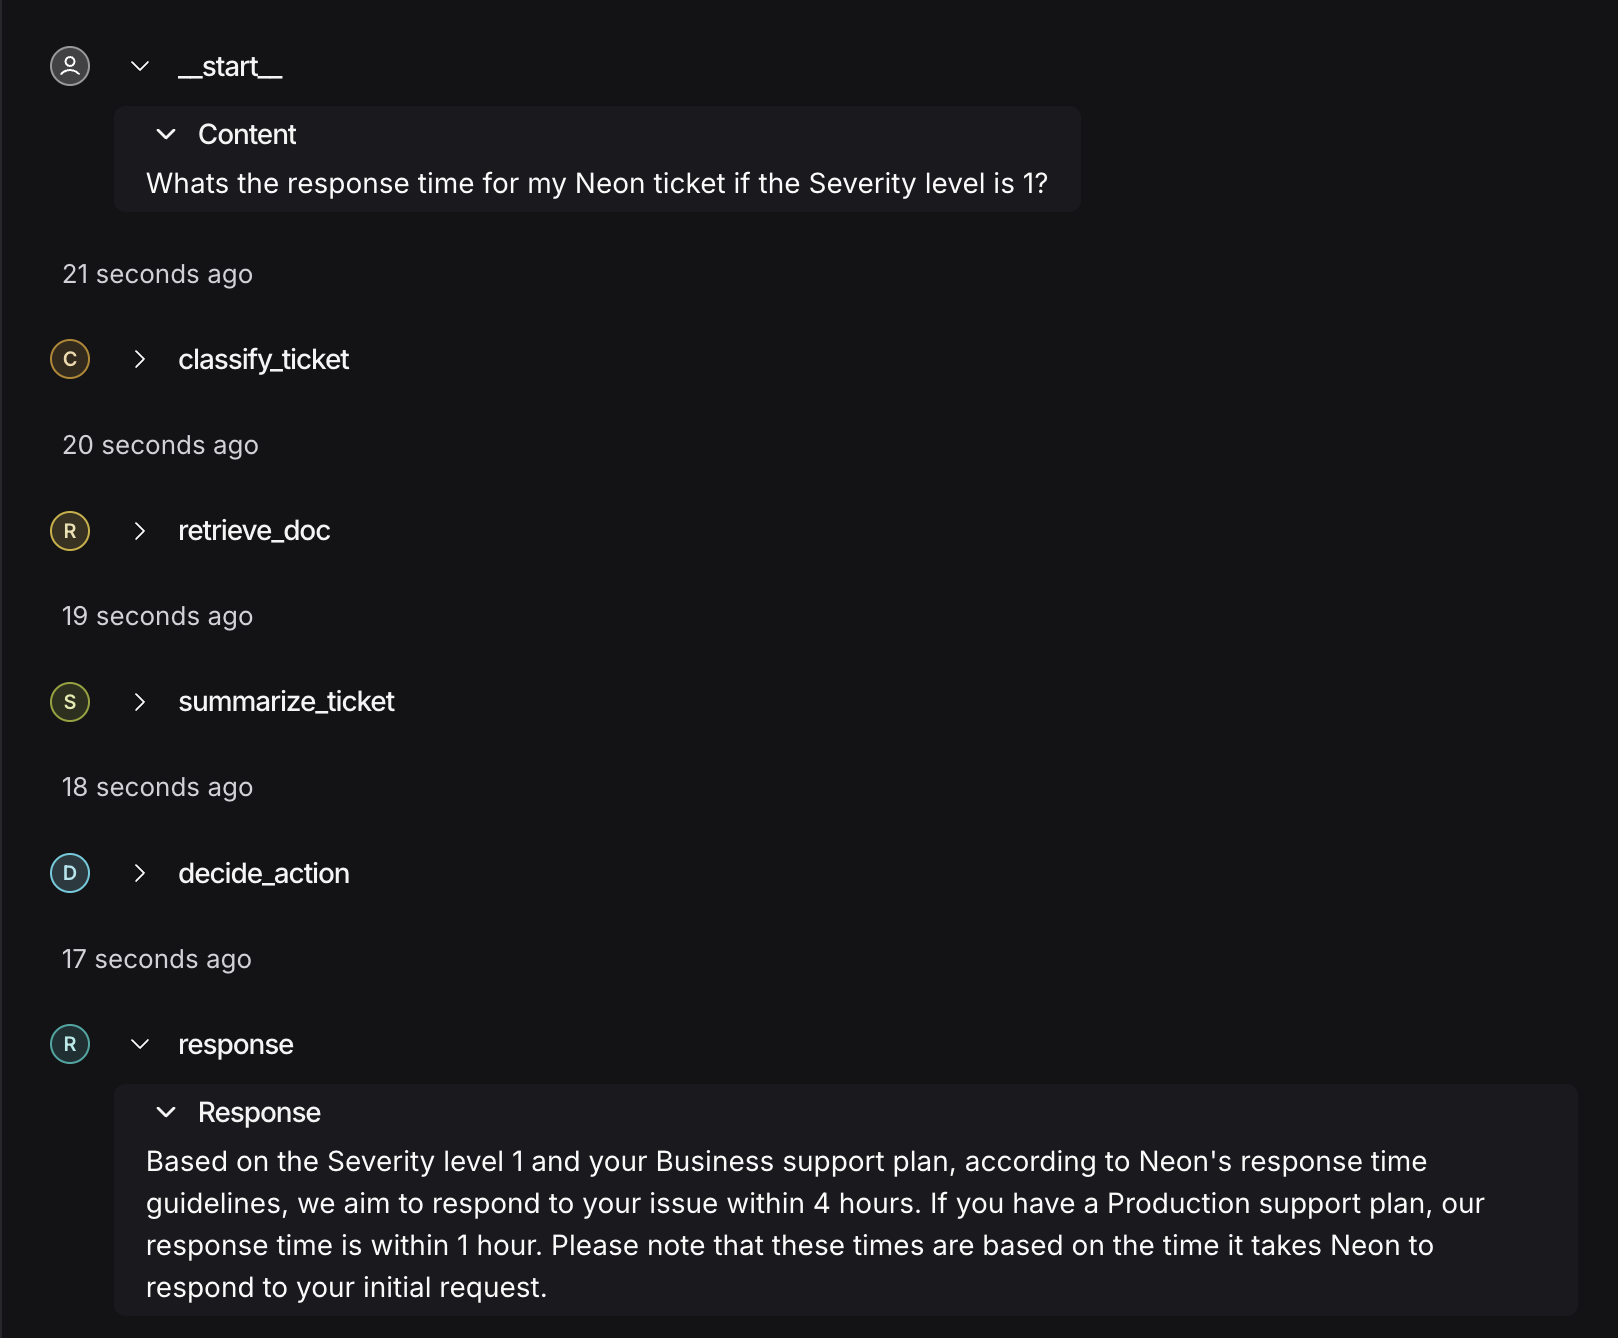
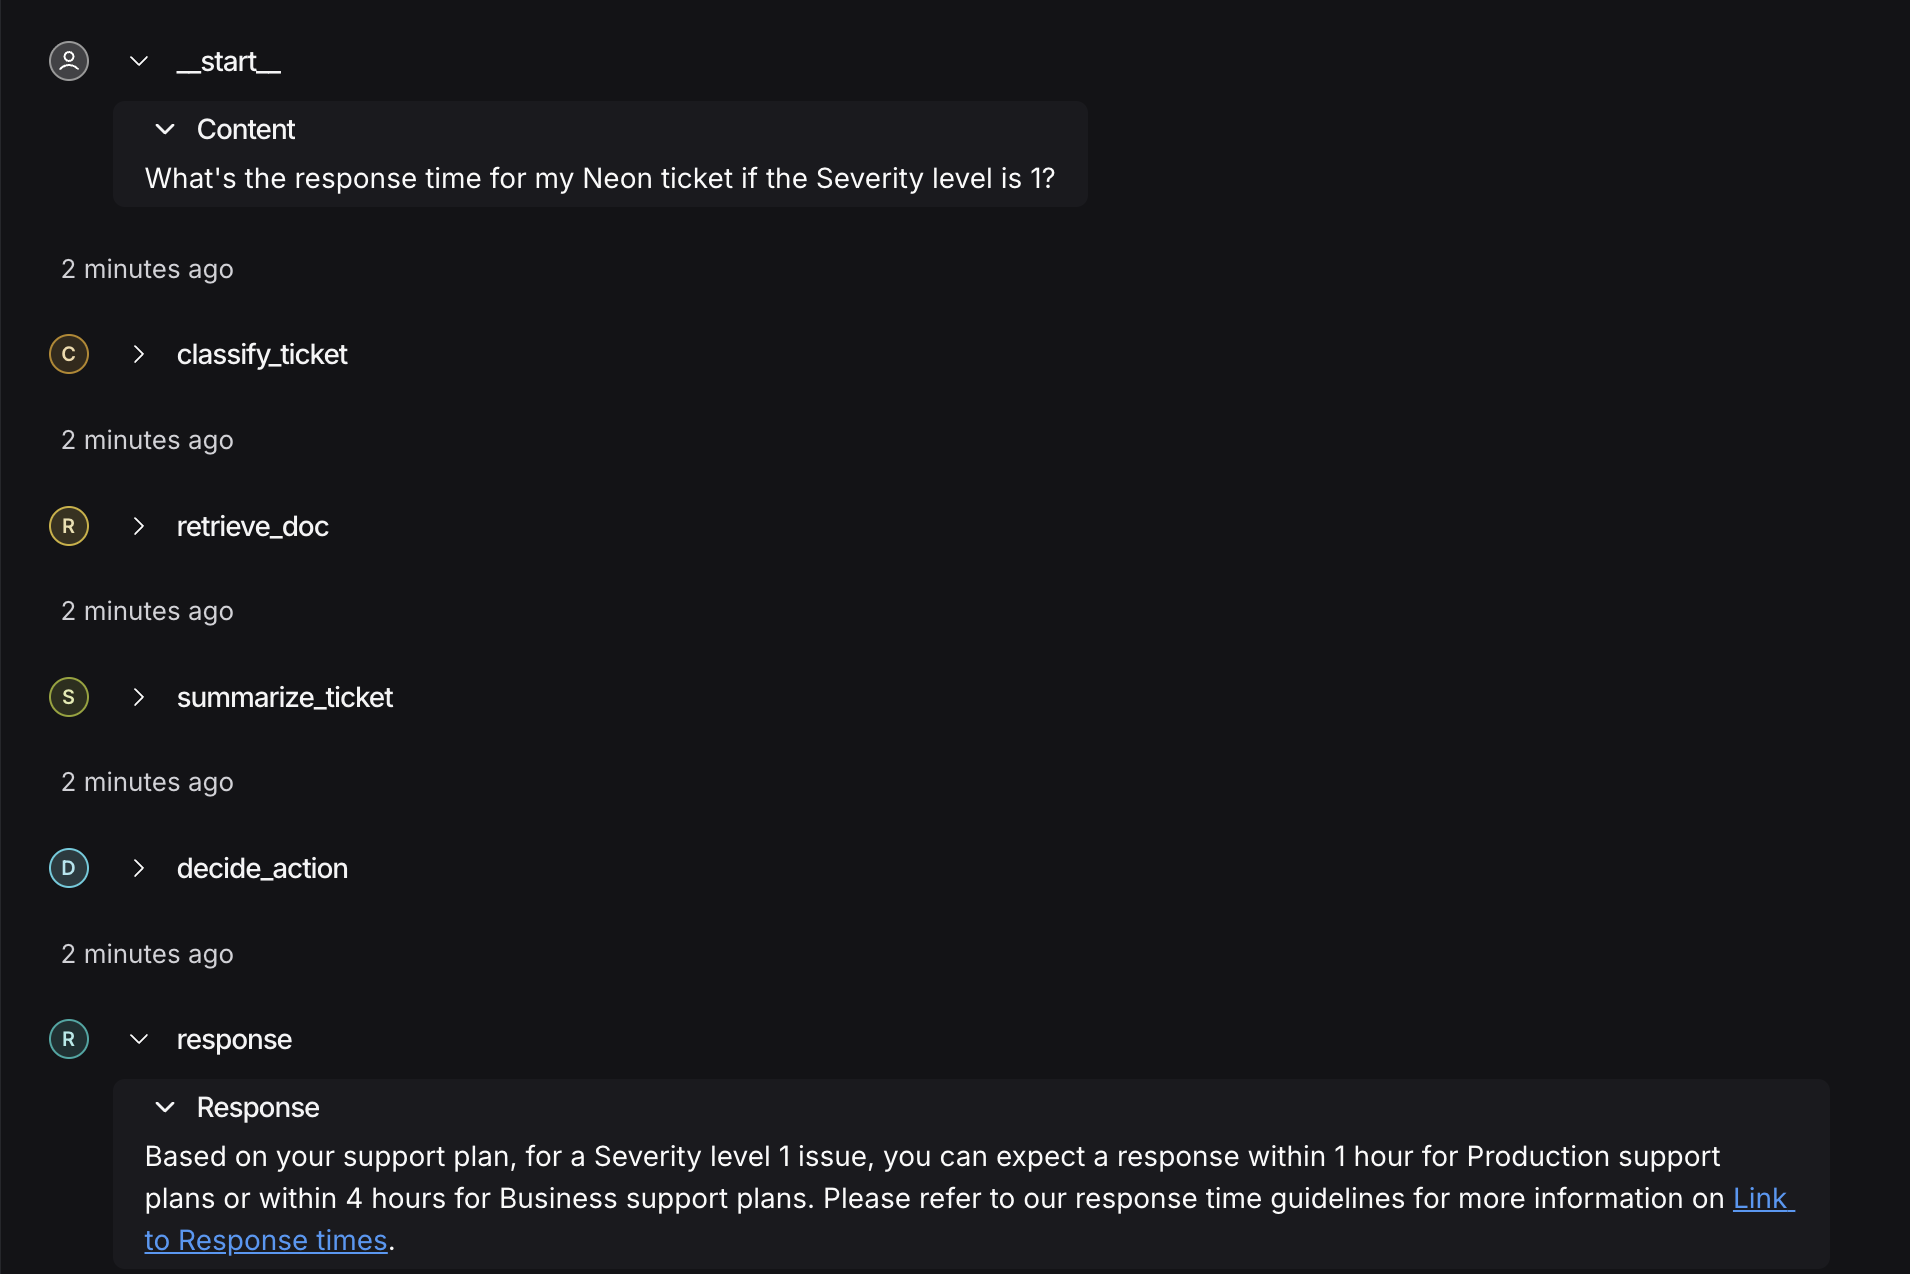
Integrate Firecrawl SDK for enhanced URL scraping and update dependencies in poetry.lock and pyproject.toml. Revise README for clarity on Firecrawl usage and setup instructions.

diff --git a/support_agent/utils/helper.py b/support_agent/utils/helper.py
@@ -6,7 +6,16 @@ import re
 import urllib.request
 from collections import Counter
 from pathlib import Path
+from firecrawl import Firecrawl
+from dotenv import load_dotenv
+import os
+import logging
 
+logger = logging.getLogger(__name__)
+
+load_dotenv(".env", override=True)
+
+app = Firecrawl(api_key=os.getenv("FIRECRAWL_API_KEY"))
 
 def tokenize(text: str) -> list[str]:
     return re.findall(r"[a-z0-9]+", text.lower())
@@ -80,11 +89,10 @@ def read_local_text(path: Path) -> str:
 
 
 def fetch_url_text(url: str, timeout: int = 8) -> str:
-    request = urllib.request.Request(url)
-    with urllib.request.urlopen(request, timeout=timeout) as response:
-        content_type = response.headers.get("Content-Type", "")
-        data = response.read()
-        text = data.decode("utf-8", errors="ignore")
-        if "text/html" in content_type:
-            return strip_html(text)
-        return text
+    try:
+        result = app.scrape(url)
+
+        if hasattr(result, "markdown") and result.markdown: 
+            return result.markdown
+    except Exception as exc:
+            logger.error("Failed scraping doc source %s: %s", url, str(exc), exc_info=True)        

diff --git a/support_agent/utils/support_tool.py b/support_agent/utils/support_tool.py
@@ -79,6 +79,7 @@ async def retrieve_doc_step(state: TicketState, config: RunnableConfig) -> dict:
     for source in sources:
         try:
             if source.startswith(("http://", "https://")):
+                logger.info("source: %s", source)
                 text = await asyncio.to_thread(fetch_url_text, source)
             else:
                 documents_path = (Path(__file__).parent / "documents" / source).resolve()

diff --git a/README.md b/README.md
@@ -22,12 +22,12 @@ The workflow runs in the following order:
 - Loads sources listed in `support_agent/utils/documents/index.txt`.
 - For URLs, it fetches text via `fetch_url_text`. For local files, it reads from `support_agent/utils/documents/`.
 - Chunks documents with `chunk_text`, tokenizes with `tokenize`, and builds TF-IDF vectors.
-- Computes cosine similarity between the ticket query vector and each chunk, then selects the best match.
+- Computes cosine similarity between the ticket query vector and each chunk then selects the best match.
 - Returns a `doc_snippet` with the matching source and extracted snippet text.
 
 3) `summarize_ticket` (`summarize_ticket_step`)
-- Sends the ticket content, doc snippet, and classification fields to the LLM.
-- Asks for a strict JSON summary, which is stored in `summary`.
+- Sends the ticket content, doc snippet and classification fields to the LLM.
+- Asks for a strict JSON summary which is stored in `summary`.
 
 4) `decide_action` (`decide_action_step`)
 - Uses the summary, urgency, sentiment, and doc snippet to choose `respond` or `escalate` (manual intervention).
@@ -35,7 +35,7 @@ The workflow runs in the following order:
 
 5) `response` (`response_step`)
 - Uses the ticket, summary and doc snippet to generate the final response.
-- Returns a JSON `response` string, which is what the CLI prints.
+- Returns a JSON `response` string which is what the CLI prints.
 
 ### Doc search approach
 
@@ -44,6 +44,7 @@ Doc search is implemented as a TF-IDF + cosine similarity retrieval:
 - `compute_idf` and `tfidf_vector` to build vectors.
 - `cosine_similarity` to score each chunk against the ticket query.
 - `extract_snippet` to return a focused excerpt of the best match.
+URL sources are scraped via Firecrawl for structured extraction.
 
 ![Project Architecture](/images/graph.png)
 
@@ -54,6 +55,7 @@ Doc search is implemented as a TF-IDF + cosine similarity retrieval:
 - LangGraph for workflow orchestration
 - Hugging Face model for NLP
 - LangSmith for cloud deployment and observability
+- Firecrawl for structured URL scraping
 
 ## Setup
 
@@ -74,6 +76,7 @@ poetry install
 3. Create a `.env` file (or export env vars) with the following values:
 
 - `HUGGINGFACEHUB_API_TOKEN`: access token for the Hugging Face model.
+- `FIRECRAWL_API_KEY`: API key for Firecrawl URL scraping.
 - `LANGSMITH_API_KEY`: LangSmith API key for tracing and observability.
 - `LANGSMITH_TRACING`: set to `true` to enable LangSmith tracing.
 - `LANGSMITH_PROJECT`: project name for grouping traces (example: `development`).
@@ -105,10 +108,10 @@ Then open the LangGraph Studio page and send a message to the agent as a JSON or
 ## Sample Flow
 
 
-The agent was provided with official Neon documentation URLs in `support_agent/utils/documents/index.txt` and a user query: *"What's the response time for my Neon ticket if the Severity level is 1?"* The agent parsed the docs and returned a response based strictly on the documentation.
-```
-Based on the Severity level 1 and your Business support plan, according to Neon's response time guidelines, we aim to respond to your issue within 4 hours. If you have a Production support plan, our response time is within 1 hour. Please note that these times are based on the time it takes Neon to respond to your initial request.
-```
+The agent was provided with official Neon documentation URLs in `support_agent/utils/documents/index.txt` and a user query: *"What's the response time for my Neon ticket if the Severity level is 1?"* The agent parsed the docs and returned the following response based strictly on the documentation:
+
+***Based on your support plan, for a Severity level 1 issue, you can expect a response within 1 hour for Production support plans or within 4 hours for Business support plans. Please refer to our response time guidelines for more information on [Link to Response times](https://neon.com/docs/introduction/support#response-times).***
+
 ![Project Flow](/images/flow1.png)
 
 ## Deployment to LangGraph Cloud
@@ -125,6 +128,6 @@ The `support_agent_cd` workflow relies on a GitHub PAT token.
 
 3) Persist doc chunks and embeddings in a vector database so we do not re-embed on every query and can run hybrid retrieval against precomputed embeddings.
 
-4) Use Firecrawl for structured URL scraping.
+4) Expand structured scraping coverage and add more extraction rules in Firecrawl.
 
 5) When the agent escalates to a human, nothing is queued as of now. We can add a SQL database to store escalated tickets so experts can pick them up in first-in order.
